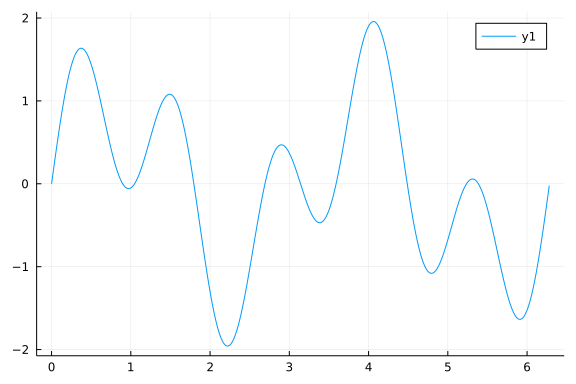
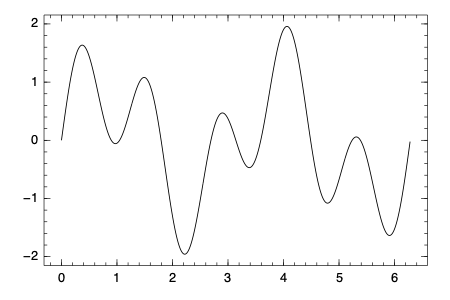
Winston instead of Plots

Changed region(s): [[0.0311, 0.03, 0.9956, 0.99], [0.5289, 0.15, 0.6222, 0.6], [0.9333, 0.27, 0.9644, 0.3]]

diff --git a/_weaved/pages/weavejl.md b/_weaved/pages/weavejl.md
@@ -26,7 +26,7 @@ x = 2
 ## Plot
 
 ```julia
-using Plots
+using Winston
 
 x = 0.0:0.01:2pi
 y = sin.(2x) + sin.(5x)

diff --git a/pages/math_and_code.md b/pages/math_and_code.md
@@ -19,7 +19,7 @@ println("hello world!")
 ## Plot
 
 ```!
-using Plots
+using Winston
 ```
 
 ```julia:ex_show

diff --git a/_weaved/pages/weavejmd.md b/_weaved/pages/weavejmd.md
@@ -21,7 +21,7 @@ x = 1
 ## Plot
 
 ```julia
-using Plots
+using Winston
 ```
 
 
